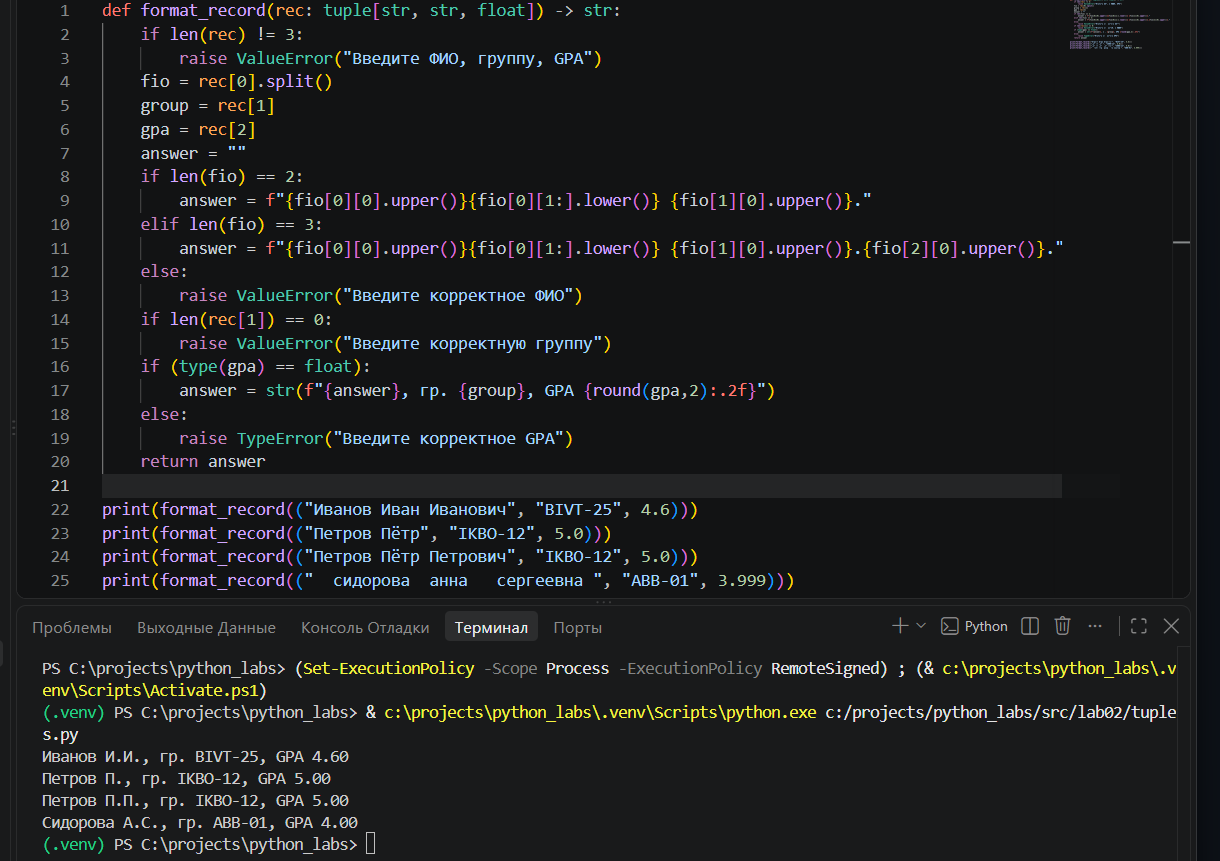
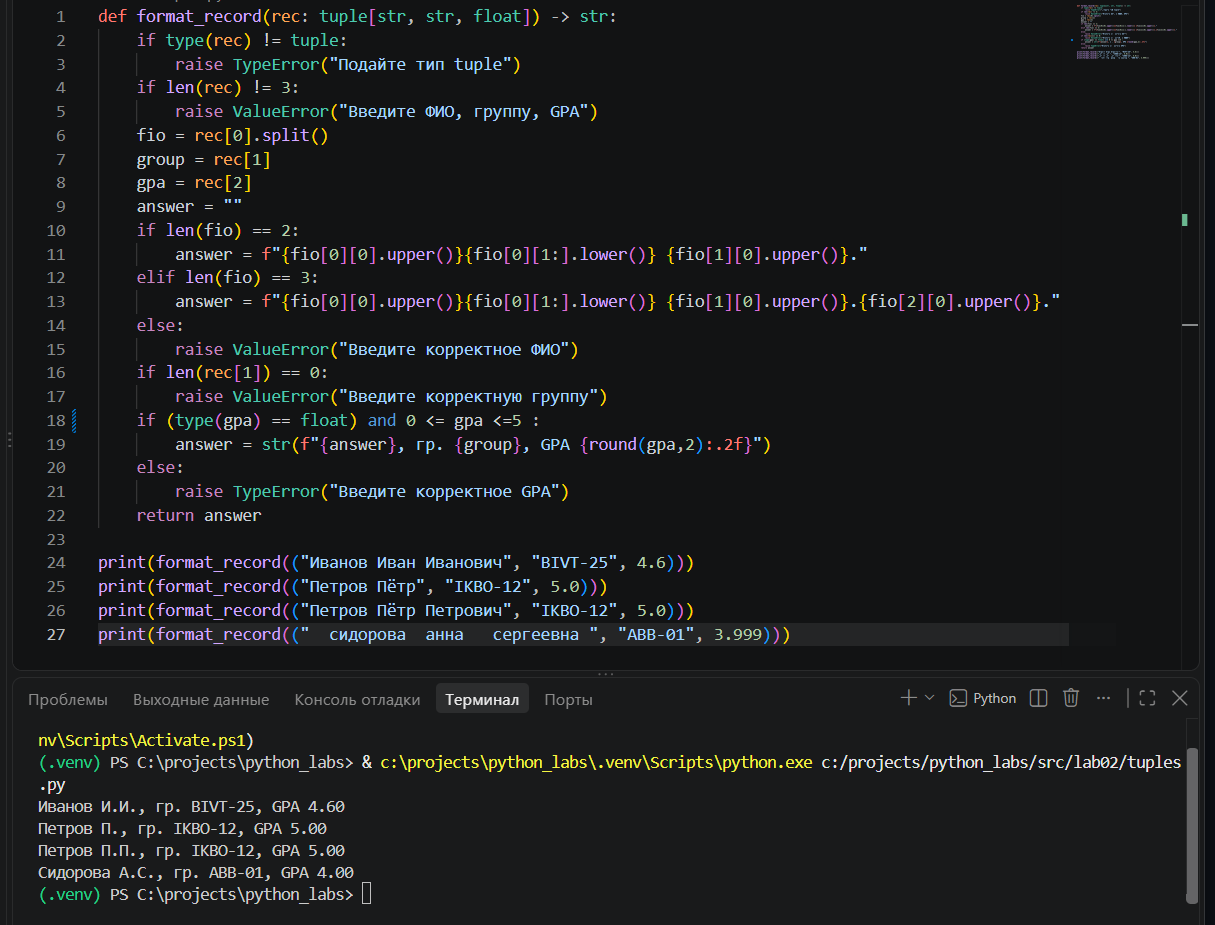
5

diff --git a/src/lab02/tuples.py b/src/lab02/tuples.py
@@ -15,7 +15,7 @@ def format_record(rec: tuple[str, str, float]) -> str:
         raise ValueError("Введите корректное ФИО")
     if len(rec[1]) == 0:
         raise ValueError("Введите корректную группу")
-    if (type(gpa) == float):
+    if (type(gpa) == float) and 0 <= gpa <=5 :
         answer = str(f"{answer}, гр. {group}, GPA {round(gpa,2):.2f}")
     else:
         raise TypeError("Введите корректное GPA")
